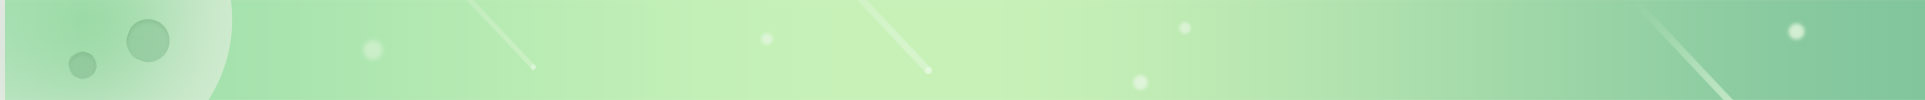
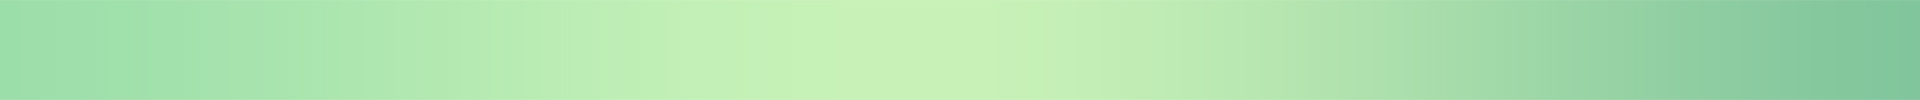
框架

diff --git a/src/main/resources/static/css/index.css b/src/main/resources/static/css/index.css
@@ -1,0 +1,153 @@
+a{
+    color: inherit;
+    text-decoration: none;
+}
+header{
+    background-size: cover;
+    background-position: 40% center;
+    position: relative;
+}
+header h1{
+    font-size: 150%;
+    color: rgba(255,255,255,.5);
+    font-weight: normal;
+    line-height: 3;
+    text-align: center;
+}
+header a.self-info{
+    padding: 0 1em;
+    position: absolute;
+    top: 50%;
+    transform: translateY(-50%);
+    right: 0;
+    color: rgba(255,255,255,.7);
+    font-size: 1.2em;
+}
+header .self-info .profile{
+    width: 1.5em;
+    height: 1.5em;
+    object-fit: cover;
+}
+header .self-info *{
+    vertical-align: middle;
+}
+nav{
+    color: #6e6e6e;
+    background-color: #f5f5f5;
+}
+nav>ul{
+    display: flex;
+}
+nav>ul>li{
+    flex-basis: 0;
+    flex-grow: 1;
+    flex-shrink: 1;
+    border: 1px solid #ececec;
+    padding: 1em .5em;
+    display: inline-flex;
+    justify-content: center;
+}
+.nav__title,.nav__content{
+    padding: 0 1em;
+}
+
+
+
+
+
+
+.switcher{
+    display: inline-flex;
+}
+.switcher__on,.switcher__off{
+    margin: 0 .3em;
+    flex-grow: 1;
+}
+
+.drag-box__container{
+    display: none;
+}
+
+
+
+
+
+.bottom-bar{
+    color: rgba(255,255,255,.7);
+    line-height: 2;
+    background-color: rgb(243,112,66);
+    display: flex;
+
+    position: fixed;
+    bottom: 0;
+    left: 0;
+    right: 0;
+}
+.bottom-bar__left,.bottom-bar__right{
+    padding: .3em 2em;
+    text-align: center;
+    position: relative;
+    transition-property: flex-grow , color;
+    transition-duration: .6s;
+    transition-timing-function: ease-out;
+}
+.bottom-bar__left{
+    background-color: rgb(72,71,115);
+
+}
+.bottom-bar__right{
+    color: transparent;
+}
+.bottom-bar__left:after{
+    content: "";
+    position:absolute;
+    left: 100%;
+    width: 0;
+    height: 0;
+    top: 0;
+    border-left: 1em solid rgb(72,71,115);
+    border-top:1.3em solid transparent;
+    border-bottom:1.3em solid transparent;
+    border-right: 0em solid rgb(72,71,115);
+
+    transition-delay: .3s;
+    transition-property: border;
+    transition-duration: .3s;
+    transition-timing-function: linear;
+}
+.bottom-bar__right:before{
+    content: "";
+    position:absolute;
+    right: 100%;
+    width: 0;
+    height: 0;
+    top: 0;
+    border-left: 0em solid rgb(72,71,115);
+    border-top:1.3em solid transparent;
+    border-bottom:1.3em solid transparent;
+    border-right: 0em solid rgb(243,112,66);
+
+    transition-property: border;
+    transition-delay: 0s;
+    transition-duration: .3s;
+    transition-timing-function: linear;
+}
+.bottom-bar__left:hover{
+    flex-grow: 1;
+    color: transparent;
+}
+.bottom-bar__left:hover+.bottom-bar__right{
+    flex-grow: 0;
+    color: initial;
+}
+.bottom-bar__right{
+    flex-grow: 1;
+}
+.bottom-bar__left:hover:after{
+    border-left: 0em solid rgb(72,71,115);
+    transition-delay: 0s;
+}
+.bottom-bar__left:hover+.bottom-bar__right:before{
+    border-right: 1em solid rgb(243,112,66);
+    transition-delay: .3s;
+}

diff --git a/src/main/resources/static/index.html b/src/main/resources/static/index.html
@@ -2,9 +2,60 @@
 <html lang="en">
 <head>
     <meta charset="UTF-8">
-    <title>HelloWorld</title>
+    <title>课堂助手</title>
+    <link rel="stylesheet" href="css/reset.css">
+    <link rel="stylesheet" href="css/index.css">
+    <link rel="stylesheet" href="css/index_tch.css">
 </head>
 <body>
-<h1>HelloWorld</h1>
+<header>
+    <h1>CLASSROOM ASSISTANT</h1>
+    <a href="#" class="self-info">
+        <img src="image/profile_tch.png" class="profile">
+        <span class="type">Tch</span>
+        <span class="name">戴红军</span>
+    </a>
+</header>
+<nav>
+    <ul>
+        <li class="drag-box">
+            <div class="nav__title">课堂</div>
+            <div class="nav__content drag-box__scene">高级程序语言</div>
+            <ul class="drag-box__container">
+                <li class="drag-box__item">计算机引论</li>
+                <li class="drag-box__item">高级程序语言</li>
+                <li class="drag-box__item">高等数学</li>
+                <li class="drag-box__item">Test1</li>
+                <li class="drag-box__item">Test2</li>
+                <div class="drag-box__bottom-bar">+添加课程</div>
+            </ul>
+        </li>
+        <li>
+            <div class="nav__title">课堂状态</div>
+            <div class="nav__content switcher">
+                <a href="#" class="switcher__on">开启</a>
+                <a href="#" class="switcher__off">关闭</a>
+            </div>
+        </li>
+        <li>
+            <div class="nav__title">视频直播</div>
+            <div class="nav__content switcher">
+                <a href="#" class="switcher__on">开启</a>
+                <a href="#" class="switcher__off">关闭</a>
+            </div>
+        </li>
+        <li>
+            <div class="nav__title">实时讨论</div>
+            <div class="nav__content switcher">
+                <a href="#" class="switcher__on">开启</a>
+                <a href="#" class="switcher__off">关闭</a>
+            </div>
+        </li>
+    </ul>
+</nav>
+<section class="bottom-bar">
+    <div class="bottom-bar__left">学生管理 视频直播 课程介绍 实时讨论</div>
+    <div class="bottom-bar__right">课程问题 课程公告 课程资料</div>
+</section>
 </body>
 </html>

diff --git a/src/main/resources/static/css/index_tch.css b/src/main/resources/static/css/index_tch.css
@@ -1,0 +1,3 @@
+header{
+    background-image: url("../image/bg_topbar_tch.jpg");
+}
